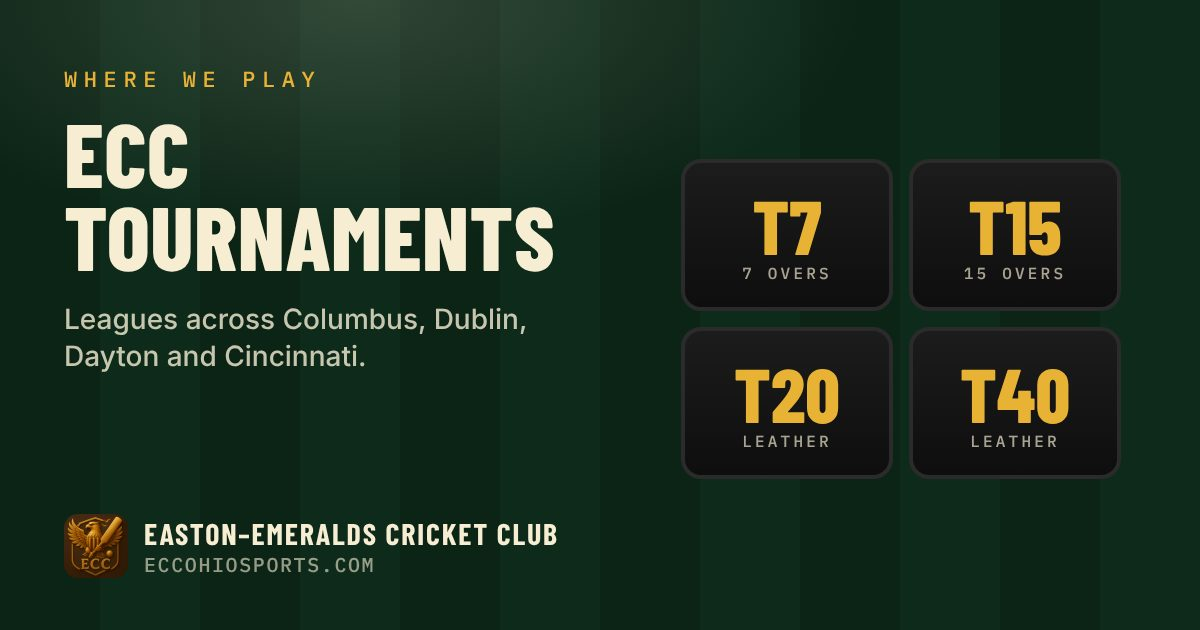
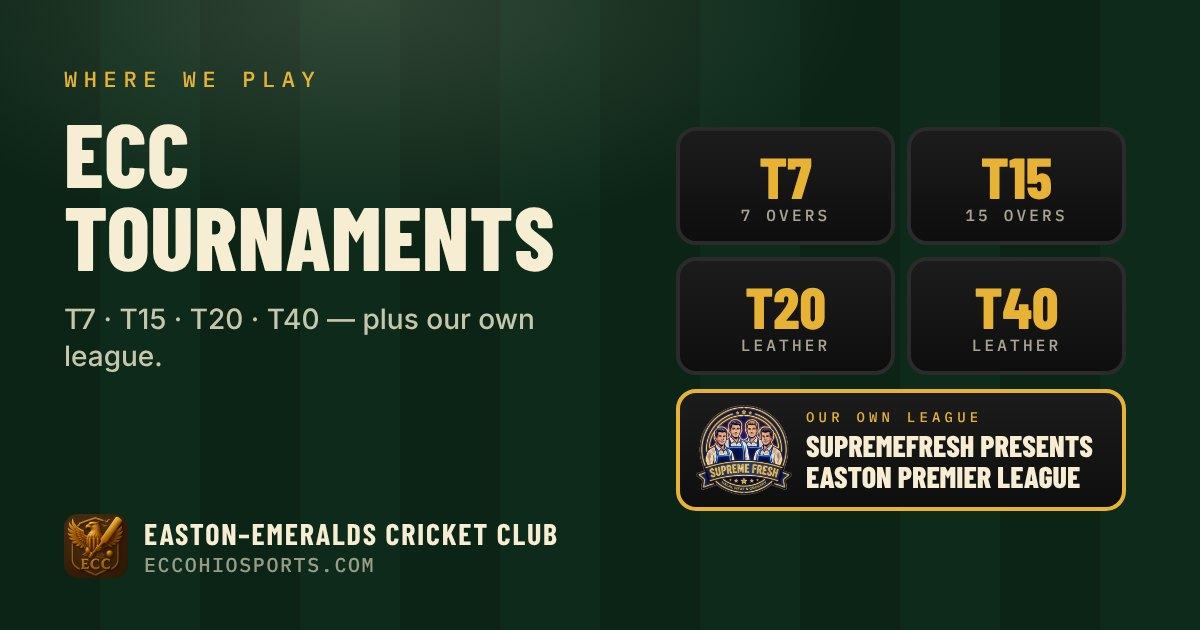
Tournaments link preview: add SupremeFresh Presents Easton Premier League
Claude-Session: https://claude.ai/code/session_01C5FGfBoDUEW2zQ55n4sc3M

diff --git a/ecc-website/src/data/pageMeta.js b/ecc-website/src/data/pageMeta.js
@@ -48,7 +48,7 @@ export const pageMeta = {
   },
   "/tournaments": {
     title: "ECC Tournaments",
-    description: "T7, T15, T20 and T40 cricket across Columbus, Dublin, Dayton and Cincinnati.",
+    description: "T7, T15, T20 and T40 cricket across Central Ohio — plus our own SupremeFresh Presents Easton Premier League.",
     image: img("tournaments"),
   },
   "/players": {
